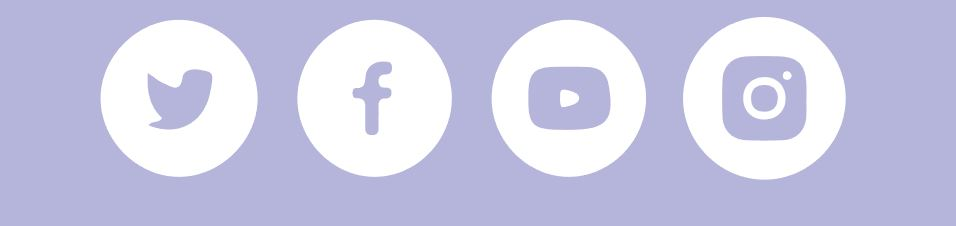
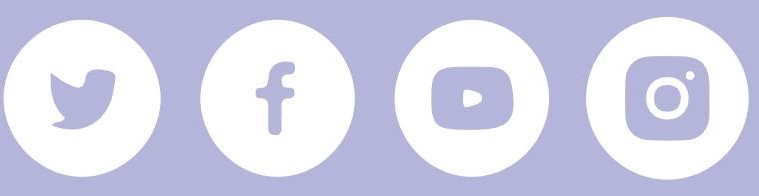
先這樣交差囉

diff --git a/index.html b/index.html
@@ -31,12 +31,10 @@
         <div>
             <!--主打商品-->
             <div class="main">
-                <div class="text title">
-                    <h1>人気商品</h1>
-                </div>
+
                 <div class="main_img"><img src="BUBU_NO_IMG/主打商品_桜餅.jpg" width="90%" alt=""></div>
                 <div class="main_introtext">
-                    <h1>BuBuのおすすめ</h1>
+                    <h1 class="main_title">BuBuのおすすめ</h1>
                     <b>お花見の定番のお菓子です。桜にちなんだ和菓子であり、桜の葉で餅菓子を包んだものです。</b>
                 </div>
                 <div><img src="BUBU_NO_IMG/棒棒.jpg" height="20px" alt=""></div>
@@ -46,19 +44,19 @@
 
         <!--人氣商品-->
         <div class="main">
+            <div class="shita"></div>
             <div class="text title">
-                <h2>人気商品</h2>
+                <h2>夏ギフト</h2>
             </div>
-            <div></div>
-            <div><img src="BUBU_NO_IMG/和菓子_お茶席.jpg" width="90%" alt=""></div>
+            <div><img src="BUBU_NO_IMG/夏色　和菓子三つ.jpg" width="90%" alt=""></div>
             <div><img src="BUBU_NO_IMG/もっと見る.JPG" width="50%" alt=""></div>
         </div>
 
         <div class="main">
             <div class="text title">
-                <h1>商品カテゴリ</h1>
+                <h2>商品カテゴリ</h2>
             </div>
-            <div class="">
+            <div class="right_35px">
                 <h2>人気商品>></h2>
             </div>
 
@@ -74,39 +72,59 @@
             </div> -->
 
 
-            <div>
-                <div class="box0"><img src="BUBU_NO_IMG/和菓子_お茶席.jpg" width="95%" alt=""></div>
-                <div class="box0"><img src="BUBU_NO_IMG/和菓子_お茶席.jpg" width="95%" alt=""></div>
-            </div>
-            <div>
-                <div class="box0 text">好吃好吃</div>
-                <div class="box0 text">好吃好吃</div>
-                <div class="box0 text">好吃好吃世界無敵好吃好吃好吃非常好吃</div>
-                <div class="box0 text">好吃好吃世界無敵好吃好吃好吃非常好ㄘ
+
+            <div class="marginb">
+                <div>
+                    <div class="align">
+                        <div class="box0"><img src="BUBU_NO_IMG/和菓子_お茶席.jpg" width="95%" alt=""></div>
+                        <div class="box0"><img src="BUBU_NO_IMG/粉紅兩個.jpg" width="95%" alt=""></div>
+                    </div>
+                    <div class="align">
+                        <div class="box0 text bold font">春の餅</div>
+                        <div class="box0 text bold">梅の練り切り</div>
+                    </div>
+                    <div class="align">
+                        <div class="box0 text font">春の足音とともに、和菓子店の店頭を彩る「桜餅」２個セット。</div>
+                        <div class="box0 text">白あんに色合いを付け、四季折々の植物や風物詩をかたどる繊細な細工。</div>
+                    </div>
                 </div>
             </div>
-            <div>
-                <div class="box0"><img src="BUBU_NO_IMG/和菓子_お茶席.jpg" width="95%" alt=""></div>
-                <div class="box0"><img src="BUBU_NO_IMG/和菓子_お茶席.jpg" width="95%" alt=""></div>
-            </div>
-            <div>
-                <div class="box0 text">好吃好吃</div>
-                <div class="box0 text">好吃好吃</div>
-                <div class="box0 text">好吃好吃世界無敵好吃好吃好吃非常好吃</div>
-                <div class="box0 text">好吃好吃世界無敵好吃好吃好吃非常好ㄘ
+            <div class="marginb">
+                <div>
+                    <div class="align">
+                        <div class="box0"><img src="BUBU_NO_IMG/もみじ　和菓子.jpg" width="95%" alt=""></div>
+                        <div class="box0"><img src="BUBU_NO_IMG/羊羹 茶 紅葉.jpg" width="95%" alt=""></div>
+                    </div>
+                    <div class="align">
+                        <div class="box0 text bold">紅葉</div>
+                        <div class="box0 text bold">羊羹</div>
+                    </div>
+                    <div class="align">
+                        <div class="box0 text">華やかな見た目としっとりとした口当たり、上品な甘さ。</div>
+                        <div class="box0 text">一般には小豆を主体とした餡を型に流し込み寒天で固めた和菓子である。</div>
+                    </div>
                 </div>
             </div>
-            <div>
-                <div class="box0"><img src="BUBU_NO_IMG/和菓子_お茶席.jpg" width="95%" alt=""></div>
-                <div class="box0"><img src="BUBU_NO_IMG/和菓子_お茶席.jpg" width="95%" alt=""></div>
-            </div>
-            <div>
-                <div class="box0 text">好吃好吃</div>
-                <div class="box0 text">好吃好吃</div>
-                <div class="box0 text">好吃好吃世界無敵好吃好吃好吃非常好吃</div>
-                <div class="box0 text">好吃好吃世界無敵好吃好吃好吃非常好ㄘ
+            <div class="marginb">
+                <div>
+                    <div class="align">
+                        <div class="box0"><img src="BUBU_NO_IMG/和菓子_ツバキ.jpg" width="95%" alt=""></div>
+                        <div class="box0"><img src="BUBU_NO_IMG/花見団子.jpg" width="95%" alt=""></div>
+                    </div>
+                    <div class="align">
+                        <div class="box0 text bold">ツバキ</div>
+                        <div class="box0 text bold">花見団子</div>
+                    </div>
+                    <div class="align">
+                        <div class="box0 text">椿の花言葉は“控えめなやさしさ・美しさ”。
+                            冬の野山や庭先に咲いた一輪がともす花あかり。</div>
+                        <div class="box0 text">降り積もった雪の下に芽吹く新芽、そして雪が溶け春を迎え花が咲く、という、待っていた春がやってきた喜びを表している。</div>
+                    </div>
                 </div>
+                <div class="shita"></div>
+                <div><img src="BUBU_NO_IMG/もっと見る.JPG" width="50%" alt=""></div>
             </div>
+
 
 
         </div>
@@ -119,23 +137,20 @@
             <div class=" itemb">
                 <div>
                     <div class="text">SHARE US</div>
-                    <div><img src="BUBU_NO_IMG/SNSリンク.jpg" height="40px" alt=""></div>
+                    <div><img src="BUBU_NO_IMG/SNSリンク.jpg" height="35px" alt=""></div>
                 </div>
             </div>
             <div class="itemb">
                 <div class="Info ClearFloat">
                     <div class="Info_l">
-                        <div class="itembott">ItemItem</div>
-                        <div class="itembott">ItemItem</div>
-                        <div class="itembott">ItemItem</div>
-                        <div class="itembott">ItemItem</div>
+                        <div class="itembott">店舗情報</div>
+                        <div class="itembott">イベント</div>
+
                     </div>
                     <div class="smallcushion Info_r"></div>
                     <div class="Info_r">
-                        <div class="itembott">ItemItem</div>
-                        <div class="itembott">ItemItem</div>
-                        <div class="itembott">ItemItem</div>
-                        <div class="itembott">ItemItem</div>
+                        <div class="itembott">採用情報</div>
+                        <div class="itembott">お問合せ</div>
                     </div>
                 </div>
                 <!-- <div class="bottom_text itemb" style="background-color: rgb(228, 137, 193)">

diff --git a/style.css b/style.css
@@ -88,31 +88,57 @@ body{
     /* border: 1px solid red; */
 }
 .main_introtext{
-    width: 90%;
+    width: 80%;
     background-color: #FFFFFF;
     color: #333333;
     margin-left: auto;
     margin-right: auto;
+    padding: 5%;
+    
+}
+.main_title{
+    line-height: 30%;
+    font-size: 1.8rem;
 }
 img{
     display: block;
     margin: 0 auto;
 }
+.main_img{
+    padding-top: 10%;
+}
 .imgcenter{ 
     max-width:100%; 
+    /* max-height:100%;  */
    } 
 .text{
     text-align: center;
 }
 .title{
-    font-size: 15px;
+    font-size: 1.3rem;
+}
+.font{
+    font-family:"HG丸ｺﾞｼｯｸM-PRO","HGMaruGothicMPRO";
+}
+.shita{
+    height: 40px;
 }
 .box0{
+    /* background-color: #61a0f8; */
     width: 45%;
-    padding-left: 15px;
-    margin: 0px;
+    padding-left: 0px;
+    margin: 0 auto;
     display: inline-block;
     vertical-align: top;
+}
+.marginb{
+    margin-bottom: 20px;
+}
+.align{
+    text-align: center;
+}
+.bold{
+    font-weight: bolder;
 }
 .content {
     display: flex;
@@ -162,7 +188,7 @@ img{
     padding: 10px;
 }
 .right_35px{
-    padding-left: 35px;
+    padding-left: 5%;
 }
 .bottom{
     background-color: #B5B4DB;
@@ -260,4 +286,6 @@ img{
     height: 30px;
     width: 50px;
     text-align: center;
+    font-size: 0.7rem;
+    font-family:"HG丸ｺﾞｼｯｸM-PRO","HGMaruGothicMPRO";
 }
